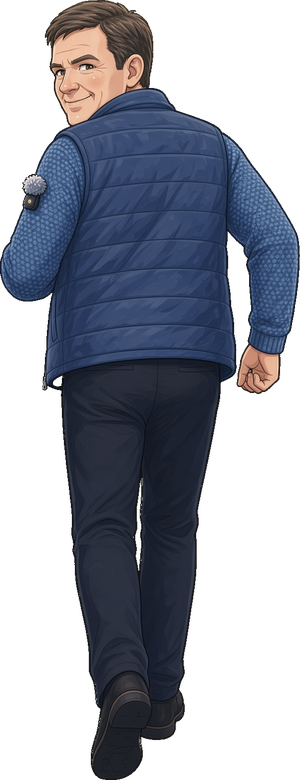
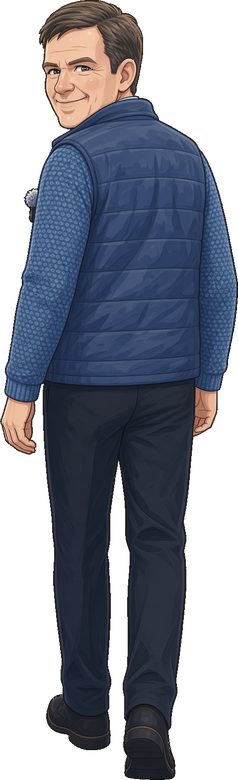
Add a feet-together step to Gary's walk.
One picture brings the feet side by side, so he is not always mid-stride.

diff --git a/game.js b/game.js
@@ -52,7 +52,7 @@ function loadGary(file) {
   img.src = file;
   return img;
 }
-const imgRun = [loadGary('gary_run1.png?v=3'), loadGary('gary_run2.png?v=3')];
+const imgRun = [loadGary('gary_run1.png?v=4'), loadGary('gary_run2.png?v=4')];
 const imgCheer = loadGary('gary_cheer.png?v=1');
 const imgCrash = loadGary('gary_crash.png?v=1');
 let runFrame = 0, runTimer = 0;

diff --git a/index-new.html b/index-new.html
@@ -73,6 +73,6 @@
   </div>
 
 <script src="game-data.js?v=6"></script>
-<script src="game.js?v=18"></script>
+<script src="game.js?v=19"></script>
 </body>
 </html>

diff --git a/index-new.html.html b/index-new.html.html
@@ -73,6 +73,6 @@
   </div>
 
 <script src="game-data.js?v=6"></script>
-<script src="game.js?v=18"></script>
+<script src="game.js?v=19"></script>
 </body>
 </html>

diff --git a/index.html b/index.html
@@ -73,6 +73,6 @@
   </div>
 
 <script src="game-data.js?v=6"></script>
-<script src="game.js?v=18"></script>
+<script src="game.js?v=19"></script>
 </body>
 </html>
